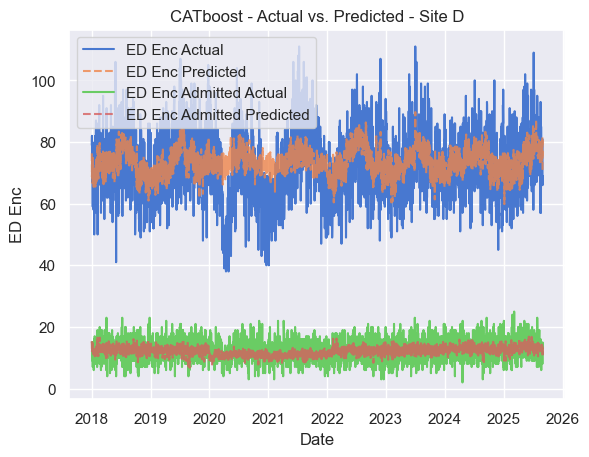
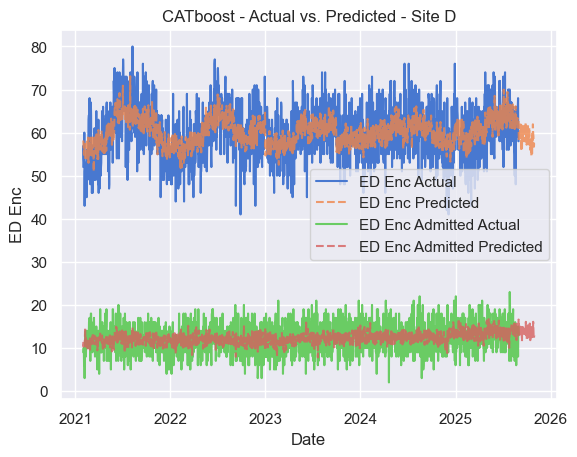
i forgor to change pics

diff --git a/README.md b/README.md
@@ -39,5 +39,5 @@ We first considered that each site gets different volumes of traffic, so we made
 Ultimately, the model we ended up choosing was CatBoost. It was able to follow the trend well enough in its predictions, and it had as much variation/noise as the actual data did. And, most importantly, it accomplished this without terribly overfitting the data. Preferably, we should have used a time forecasting model such as ARIMA/SARIMA, but we could not get this working in time.
 |                                                                 |                                                                 |
 | ----------------------------------------------------------------|---------------------------------------------------------------- |
-| *$R^2$ of 0.7292* ![Site A - CatBoost](./pics/models/cat-A.png) | *$R^2$ of 0.7958* ![Site B - CatBoost](./pics/models/cat-B.png) |
-| *$R^2$ of 0.7078* ![Site C - CatBoost](./pics/models/cat-C.png) | *$R^2$ of 0.6467* ![Site D - CatBoost](./pics/models/cat-D.png) |
+| *$R^2$ of 0.6240* ![Site A - CatBoost](./pics/models/cat-A.png) | *$R^2$ of 0.5125* ![Site B - CatBoost](./pics/models/cat-B.png) |
+| *$R^2$ of 0.6912* ![Site C - CatBoost](./pics/models/cat-C.png) | *$R^2$ of 0.7005* ![Site D - CatBoost](./pics/models/cat-D.png) |
